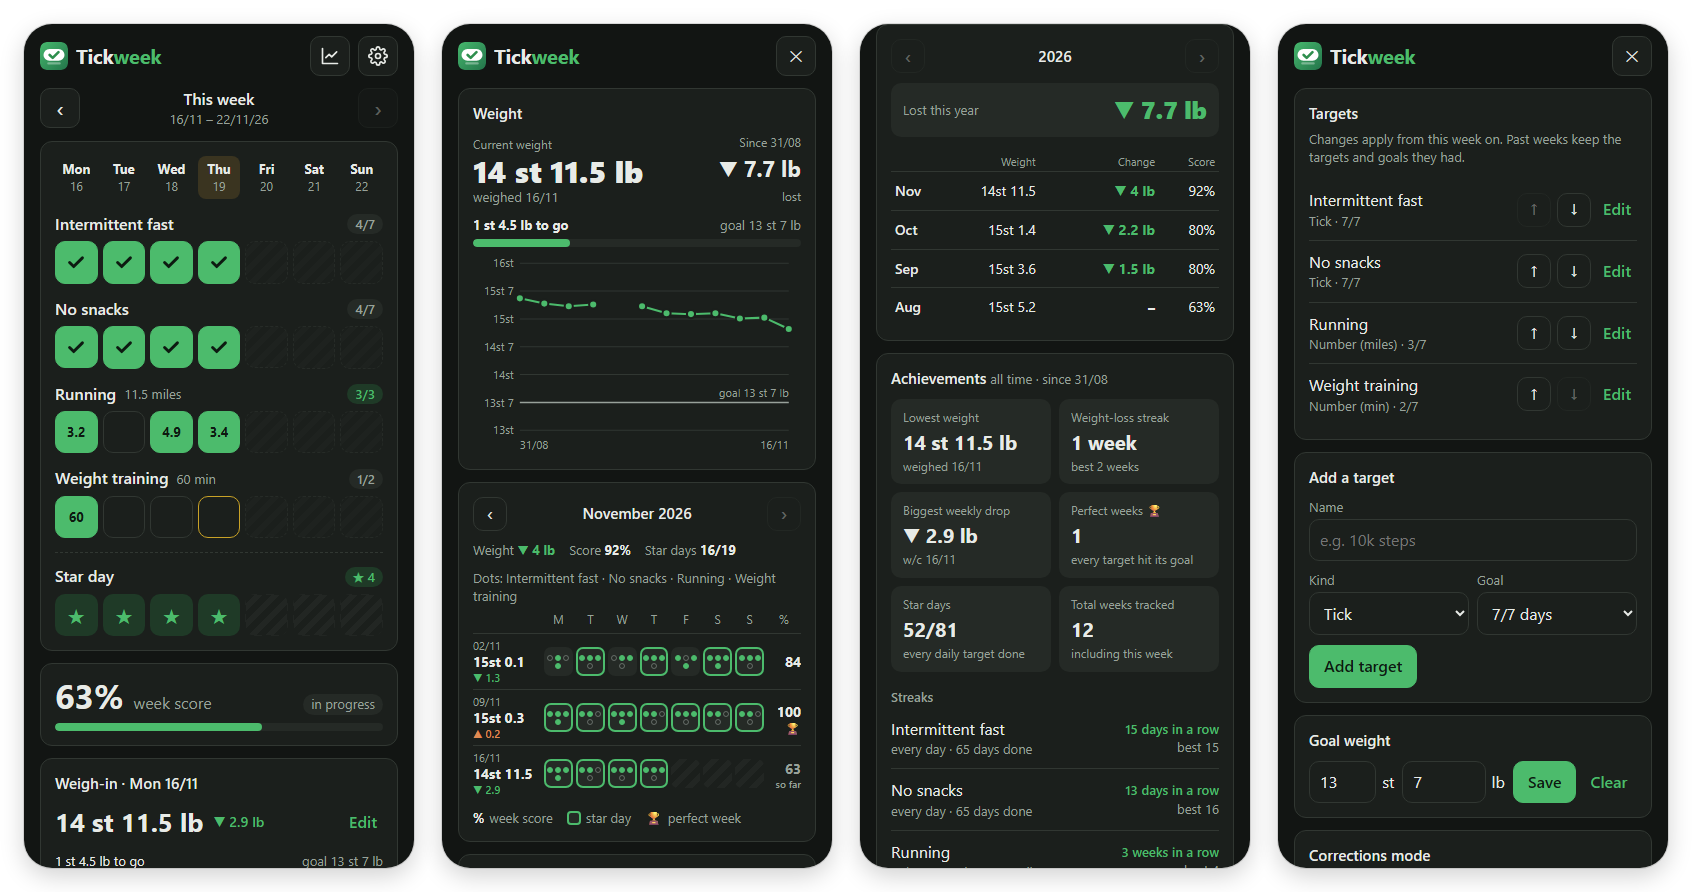
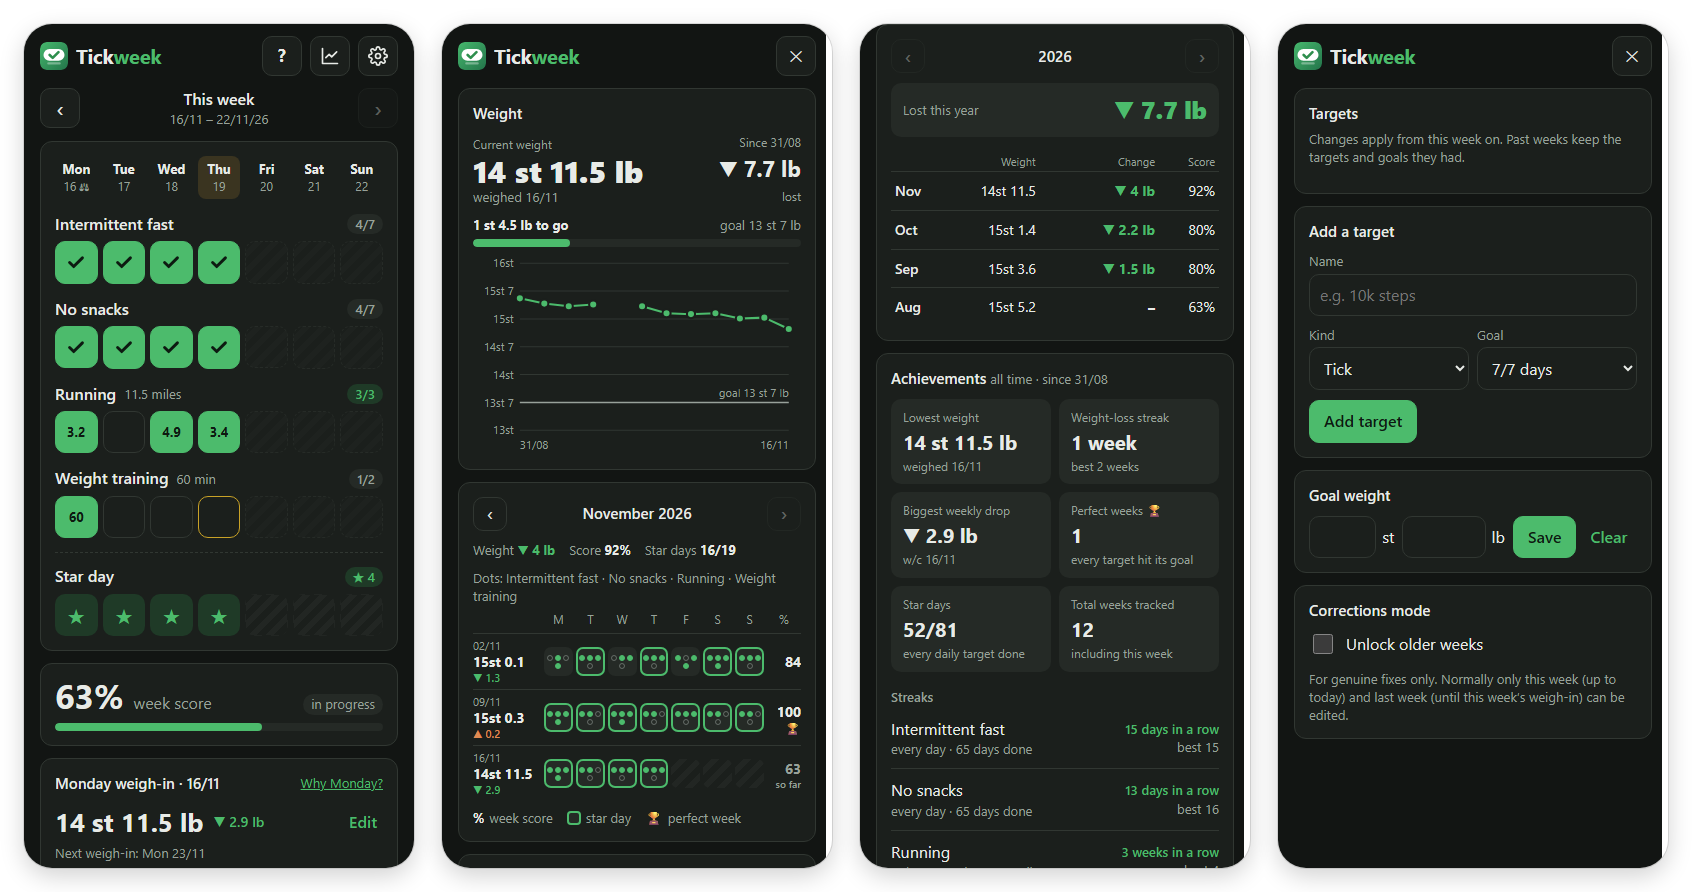
Release 0.3.0: How it works page, weigh-in guidance (#12)
- How it works page (/help): ticking, why weigh in on Monday, scores and
  rewards, History, Settings. Linked from a ? button, "Why Monday?" on the
  weigh-in card and a "New here?" notice until the first weigh-in.
- Weigh-in card: "Monday weigh-in" title and a status line (this morning /
  missed, counts as late / next weigh-in date); scales mark on Monday.
- Version 0.3.0; changelog, spec and README screenshots updated.

diff --git a/public/js/week.js b/public/js/week.js
@@ -33,6 +33,12 @@ function recompute() {
 }
 
 // ---------- render ----------
+function nextMondayDdmm() {
+  const d = new Date(data.days[0].date + 'T00:00:00Z');
+  d.setUTCDate(d.getUTCDate() + 7);
+  return d.toISOString().slice(8, 10) + '/' + d.toISOString().slice(5, 7);
+}
+
 /** '16/11 – 22/11/26', or '28/12/26 – 03/01/27' when the week crosses New Year. */
 function weekRange(from, to) {
   const dm = (iso) => `${iso.slice(8, 10)}/${iso.slice(5, 7)}`;
@@ -59,6 +65,7 @@ function renderNotices() {
   const box = $('notices');
   box.replaceChildren();
   const anyEditable = data.days.some((d) => d.editable);
+  if (data.current && !data.personalBest) box.append(h('div', { class: 'notice' }, 'New here? ', h('a', { href: '/help' }, 'See how it works'), '.'));
   if (data.corrections) box.append(h('div', { class: 'notice warn' }, 'Corrections mode is on: older weeks are unlocked. ', h('a', { href: '/settings' }, 'Settings')));
   if (!data.current && anyEditable && !data.corrections) box.append(h('div', { class: 'notice' }, 'Last week stays editable until this week’s weigh-in.'));
   if (!anyEditable && !data.current) box.append(h('div', { class: 'notice' }, 'This week is locked. ', h('a', { href: '/settings' }, 'Corrections mode'), ' unlocks it.'));
@@ -84,7 +91,14 @@ function renderWeigh() {
   const card = $('weigh');
   const w = data.weighIn;
   card.className = 'card weigh' + (data.current && !w && data.weighInEditable ? ' due' : '');
-  const kids = [h('h2', {}, `Weigh-in · Mon ${data.days[0].ddmm}`)];
+  const kids = [h('div', { class: 'row', style: 'margin-bottom:10px' },
+    h('h2', { style: 'margin:0' }, `Monday weigh-in · ${data.days[0].ddmm}`),
+    h('a', { href: '/help#monday', class: 'small', style: 'margin-left:auto' }, 'Why Monday?'))];
+  if (data.current && !w && data.weighInEditable) {
+    const monday = data.days[0].isToday;
+    kids.push(h('div', { class: 'small', style: 'margin:-4px 0 10px' },
+      monday ? 'Step on the scales this morning.' : 'Missed Monday? You can still enter it (counts as late).'));
+  }
 
   if (w && !editingWeigh) {
     const prev = data.prevWeighIn;
@@ -101,6 +115,7 @@ function renderWeigh() {
       w.late ? h('span', { class: 'pill warn' }, 'late') : null,
       data.weighInEditable ? h('button', { class: 'btn link', style: 'margin-left:auto', onclick: () => { editingWeigh = true; renderWeigh(); } }, 'Edit') : null,
     ));
+    if (data.current) kids.push(h('div', { class: 'small muted', style: 'margin-top:4px' }, `Next weigh-in: Mon ${nextMondayDdmm()}`));
   } else if (data.weighInEditable) {
     kids.push(weighForm(w));
   } else {
@@ -142,8 +157,6 @@ function weighForm(existing) {
   };
   lb.addEventListener('keydown', (e) => { if (e.key === 'Enter') save(); });
 
-  const today = data.days.find((d) => d.isToday);
-  const late = data.current && !existing && today && today.dow !== 'Mon';
   return h('div', {},
     h('div', { class: 'stlb' },
       h('label', {}, st, 'st'),
@@ -152,7 +165,6 @@ function weighForm(existing) {
       existing ? h('button', { class: 'btn link', onclick: () => { editingWeigh = false; renderWeigh(); } }, 'Cancel') : null,
       existing ? h('button', { class: 'btn link danger', onclick: remove }, 'Delete') : null,
     ),
-    late ? h('div', { class: 'small muted', style: 'margin-top:6px' }, 'Not Monday any more: this will count as a late weigh-in.') : null,
   );
 }
 
@@ -177,7 +189,8 @@ function renderGrid() {
   const card = $('gridcard');
   card.classList.toggle('hidden', !data.targets.length); // the score card already says "add some in Settings"
   const head = h('div', { class: 'grid' }, data.days.map((d) =>
-    h('div', { class: 'dayhead' + (d.isToday ? ' today' : '') }, h('b', {}, d.dow), d.ddmm.slice(0, 2))));
+    h('div', { class: 'dayhead' + (d.isToday ? ' today' : '') + (d.dow === 'Mon' ? ' weighday' : ''), title: d.dow === 'Mon' ? 'Weigh-in day' : null },
+      h('b', {}, d.dow), d.ddmm.slice(0, 2), d.dow === 'Mon' ? h('span', { class: 'scale', 'aria-hidden': 'true' }, ' ⚖') : null)));
   const blocks = data.targets.map((t) => {
     const met = t.done >= t.goal_days;
     return h('div', { class: 'target' },

diff --git a/public/help.html b/public/help.html
@@ -1,0 +1,79 @@
+<!doctype html>
+<html lang="en-GB">
+<head>
+  <meta charset="utf-8">
+  <meta name="viewport" content="width=device-width, initial-scale=1, viewport-fit=cover">
+  <meta name="theme-color" content="#2f8f4e">
+  <title>How Tickweek works</title>
+  <link rel="stylesheet" href="/style.css">
+  <link rel="icon" href="/icons/favicon.svg" type="image/svg+xml">
+  <link rel="apple-touch-icon" href="/icons/apple-touch-icon.png">
+  <link rel="manifest" href="/manifest.webmanifest">
+  <meta name="apple-mobile-web-app-capable" content="yes">
+  <meta name="mobile-web-app-capable" content="yes">
+  <meta name="apple-mobile-web-app-title" content="Tickweek">
+  <meta name="apple-mobile-web-app-status-bar-style" content="black-translucent">
+</head>
+<body>
+<main class="help">
+  <header class="top">
+    <a class="brand" href="/"><img src="/icons/favicon.svg" alt="" width="28" height="28"><span class="wm">Tick<span>week</span></span></a>
+    <a class="iconbtn" href="/" aria-label="Back to this week" title="This week">✕</a>
+  </header>
+
+  <h1>How it works</h1>
+  <p class="lead">Tick off your daily targets. Weigh in every Monday. Watch the weight come down.</p>
+
+  <section class="card">
+    <h2>1 · Tick your targets</h2>
+    <ul>
+      <li>Tap a box when you've done that target for the day. Tap again to undo.</li>
+      <li>Targets with a number (like running or weights) open a keypad: enter the miles or minutes.</li>
+      <li>Forgot a day? Fill it in any time this week. Last week stays open until you weigh in.</li>
+      <li><b>3/7</b> on a target means 3 of the 7 days this week it asks for.</li>
+    </ul>
+  </section>
+
+  <section class="card" id="monday">
+    <h2>2 · Weigh in on Monday</h2>
+    <ul>
+      <li><b>Why Monday?</b> Weekends are where plans slip. Weighing on Monday means the scales judge your weekend
+        straight away, while you still remember what you ate.</li>
+      <li><b>Why only weekly?</b> Your weight bounces day to day with water, salt and food. Once a week shows the real
+        trend without the noise.</li>
+      <li><b>Tip:</b> same scales, first thing in the morning, before breakfast. Then every Monday is comparable.</li>
+      <li>Missed it? Enter it later in the week. It still counts, marked as late.</li>
+    </ul>
+  </section>
+
+  <section class="card">
+    <h2>3 · Scores and rewards</h2>
+    <ul>
+      <li><b>Week score</b>: how much of this week's targets you've hit so far.</li>
+      <li><b>★ Star day</b>: every daily target done that day.</li>
+      <li><b>🏆 Perfect week</b>: every target hit its goal for the week.</li>
+      <li><b>Streaks</b>: days in a row for daily targets, weeks in a row for the others.</li>
+      <li><b>Weight-loss streak</b>: Mondays in a row lower than the one before.</li>
+    </ul>
+  </section>
+
+  <section class="card">
+    <h2>4 · History</h2>
+    <ul>
+      <li>Your weight, how much you've lost and how far to your goal.</li>
+      <li>Each month's weeks at a glance: one dot per target per day.</li>
+      <li>A month-by-month summary for the year, and your achievements.</li>
+    </ul>
+  </section>
+
+  <section class="card">
+    <h2>5 · Settings</h2>
+    <ul>
+      <li>Add, rename, reorder or retire targets, and set how many days a week each one asks for.</li>
+      <li>Set your goal weight.</li>
+      <li>Changes apply from this week on. Past weeks keep the targets they had.</li>
+    </ul>
+  </section>
+</main>
+</body>
+</html>

diff --git a/public/style.css b/public/style.css
@@ -160,6 +160,13 @@ dialog.pad::backdrop { background: rgba(0,0,0,.45); }
 .switch { display: flex; align-items: center; gap: 10px; cursor: pointer; }
 .switch input { width: 20px; height: 20px; accent-color: var(--accent); }
 
+/* ---------- help ---------- */
+.help h1 { font-size: 24px; margin: 4px 0 4px; }
+.help .lead { color: var(--muted); margin: 0 0 14px; }
+.help ul { margin: 0; padding-left: 18px; }
+.help li { margin: 6px 0; line-height: 1.45; }
+.help li b { color: var(--text); }
+
 /* ---------- misc ---------- */
 .notice { font-size: 14px; padding: 10px 12px; border-radius: 10px; background: var(--surface-2); margin-bottom: 12px; }
 .notice.warn { background: var(--today); }
@@ -173,6 +180,7 @@ dialog.pad::backdrop { background: rgba(0,0,0,.45); }
 .streak { font-size: 13px; color: var(--muted); white-space: nowrap; }
 .streak.on { color: var(--accent); font-weight: 600; }
 .dayhead { position: relative; }
+.dayhead .scale { font-size: 11px; color: var(--muted); }
 .fullrow { padding-top: 12px; border-top: 1px dashed var(--line); }
 .fd { aspect-ratio: 1 / 1; border-radius: 10px; border: 1.5px solid transparent; background: var(--surface-2); display: grid; place-items: center; font-size: 22px; color: var(--accent); min-width: 0; }
 .fd.on { background: var(--accent-soft); }

diff --git a/public/index.html b/public/index.html
@@ -18,6 +18,7 @@
 <main>
   <header class="top">
     <a class="brand" href="/"><img src="/icons/favicon.svg" alt="" width="28" height="28"><span class="wm">Tick<span>week</span></span></a>
+    <a class="iconbtn" href="/help" aria-label="How it works" title="How it works" style="font-weight:700;font-size:18px">?</a>
     <a class="iconbtn" href="/history" aria-label="History" title="History">
       <svg width="20" height="20" viewBox="0 0 24 24" fill="none" stroke="currentColor" stroke-width="2" stroke-linecap="round" stroke-linejoin="round" aria-hidden="true"><path d="M3 3v18h18"/><path d="M7 14l4-4 3 3 6-6"/></svg>
     </a>

diff --git a/docs/changelogs/2026-11.md b/docs/changelogs/2026-11.md
@@ -1,5 +1,10 @@
 # Changelog: November 2026
 
+## 16 Nov 2026: v0.3.0
+
+- Released **v0.3.0**: plainer labels and Achievements, Streaks card on This week, How it works page, weigh-in
+  status lines + ⚖ on Monday, four-panel README screenshots. `package.json` bumped to match.
+
 ## 16 Nov 2026: streaks moved to History → Achievements
 
 - This week: streak labels removed from the target rows (they read as if they belonged to the day columns); the
@@ -14,6 +19,12 @@
   and "weeks with every goal met".
 - Demo seed always includes one perfect week (last week) so screenshots show a perfect week 🏆.
 - README screenshots: four panels (This week, History, year + achievements, Settings).
+- **How it works** page (`/help`): ticking, why weigh in on Monday (the scales judge the weekend; weekly beats daily
+  noise; same scales, morning, before breakfast), scores and rewards, History, Settings. Linked from a ? button,
+  "Why Monday?" on the weigh-in card (now titled "Monday weigh-in"), and a "New here?" notice until the first
+  weigh-in.
+- Weigh-in card says what to do: "Step on the scales this morning" (Monday), "Missed Monday? You can still enter it
+  (counts as late)" (Tue–Sun), "Next weigh-in: Mon dd/mm" (done). ⚖ marks Monday's column in the table.
 - This week: compact **Streaks** card at the bottom (name → "15 days in a row"; only live streaks, current week only).
 - Star days shown out of the days tracked (month summary "Star days 15/19", tile "51/81"); Achievements heading says
   the period ("all time · since 31/08").

diff --git a/docs/design.md b/docs/design.md
@@ -72,7 +72,10 @@ The current week's score and streaks are "in progress" until the week closes.
    each day's cell showing a mini dot per target (ringed = star day), the week score and a 🏆 for a perfect week; tap a
    week to open it. Then a **year summary** (per month: weight at month end, change, average score). An
    **Achievements** section (record tiles + each target's current/best streak and totals) below. *(Revised 16 Nov 2026: month switcher instead of one long list of weeks.)*
-3. **Settings**: targets (add/edit/reorder/retire, kind, unit, N/7), goal weight, and the corrections switch.
+3. **How it works** (`/help`): five short sections (ticking, Monday weigh-in and why, scores and rewards,
+   History, Settings). Linked from a ? in the This week header, "Why Monday?" on the weigh-in card, and a
+   "New here?" notice until the first weigh-in.
+4. **Settings**: targets (add/edit/reorder/retire, kind, unit, N/7), goal weight, and the corrections switch.
 
 ## Edit window
 
